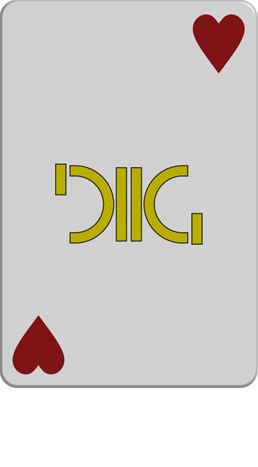
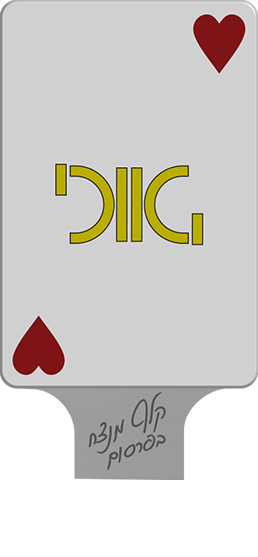
דף פתיחה

diff --git a/src/pages/UnderConstruction/UnderConstructionPage.css b/src/pages/UnderConstruction/UnderConstructionPage.css
@@ -3,6 +3,11 @@
   display: none;
 }
 
+/* Opening screen only: hide global Footer */
+.app--opening-screen > .footer {
+  display: none;
+}
+
 .under-construction-header-spacer {
   flex-shrink: 0;
   height: 69px;
@@ -57,7 +62,7 @@
   margin: 0;
   padding: 0;
   width: 258px;
-  height: 467px;
+  height: 667px;
   max-width: none;
   max-height: none;
 }
